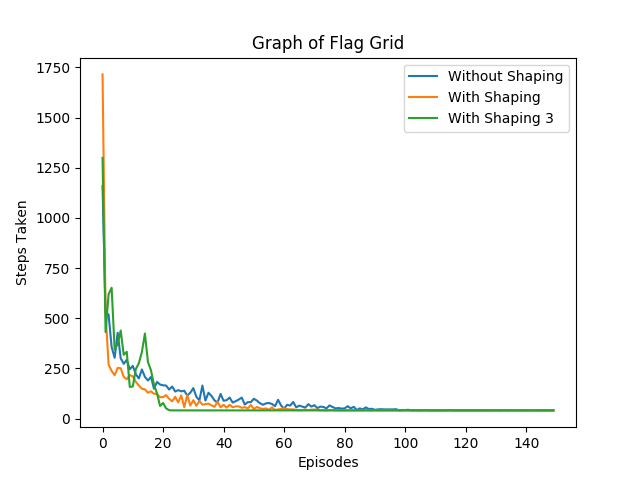
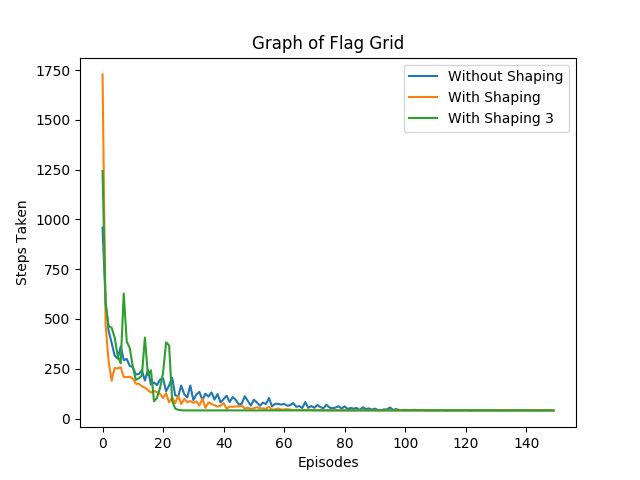
Hungry-Thirsty Added

diff --git a/main.py b/main.py
@@ -13,29 +13,33 @@ def show_Q_path(n,Q,action_map2,pl,name):
 		pl.grid.gui.update(pl.states[j][0],pl.states[j][1],j)
 	return gui0
 n=10
-p=0
+p=0.1
 eps = 1
 num_actions = 4
 num_episode = 150
 lr = 0.5
+
+#######Flag positions############
 # flag_pos = [[1,4],[2,0],[3,4],[4,0]]
 # flag_pos = [[0,4],[2,2]]
-flag_pos = [[6,1]]
+# flag_pos = [[6,1]]
 # flag_pos = [[0,9],[8,0],[5,4],[3,9],[6,0],[9,9]]
 
 allowed = [[True]*n for i in range(0,n)]
 # allowed[0][1] = False
-allowed[1][0:8] = [False]*8
-allowed[3][1:10] = [False]*9
-allowed[5][0:5] = [False]*5
-allowed[5][6:10] = [False]*4
-allowed[7][2:8] = [False]*6
-allowed[6][2] = False
+# allowed[1][0:8] = [False]*8
+# allowed[3][1:10] = [False]*9
+# allowed[5][0:5] = [False]*5
+# allowed[5][6:10] = [False]*4
+# allowed[7][2:8] = [False]*6
+# allowed[6][2] = False
 
+##water and food positions###
+fpos = [9,9]
+wpos = [0,9]
 
-
-
-num_states = n*n*len(flag_pos)
+# num_states = n*n*len(flag_pos)
+num_states = n*n*2
 
 
 action_map = {0:"Up",1:"down",2:"right",3:"left"}
@@ -43,9 +47,13 @@ action_map2 = {0:"\u2191",1:"\u2193",2:"\u2192",3:"\u2190"}
 
 #############################################################################################
 
-grid = gridSim(n,p,flag_pos,allowed,"Optimal Action Withounum_actionst Shaping")
+# grid = gridSim(n,p,flag_pos,allowed,"Optimal Action Withounum_actionst Shaping")
 
-pl = player(grid)
+# pl = player(grid)
+grid = htgrid(n,p,allowed,fpos,wpos,"Optimal Action Without Shaping")
+
+pl = htpl(grid)
+
 Q,stepsPerEpisode=q_learning(pl,lr,eps,num_episode,num_states,num_actions,0)
 print(estimate_V(Q,num_states,num_actions))
 gui=show_Q_path(n,Q,action_map2,pl,"path without shaping")
@@ -54,14 +62,14 @@ plt.plot(range(num_episode),stepsPerEpisode,label='Without Shaping')
 
 #############################################################################################
 
-grid.__init__(n,p,flag_pos,allowed,"Optimal Action With Shaping")
-pl.__init__(grid)
+# grid.__init__(n,p,flag_pos,allowed,"Optimal Action With Shaping")
+# pl.__init__(grid)
 
-Q_shaping,stepsPerEpisode_shaping=q_learning(pl,lr,eps,num_episode,num_states,num_actions,1)
-print(estimate_V(Q_shaping,num_states,num_actions))
-gui=show_Q_path(n,Q_shaping,action_map2,pl,"path with shaping")
+# Q_shaping,stepsPerEpisode_shaping=q_learning(pl,lr,eps,num_episode,num_states,num_actions,1)
+# print(estimate_V(Q_shaping,num_states,num_actions))
+# gui=show_Q_path(n,Q_shaping,action_map2,pl,"path with shaping")
 
-plt.plot(range(num_episode),stepsPerEpisode_shaping,label='With Shaping')
+# plt.plot(range(num_episode),stepsPerEpisode_shaping,label='With Shaping')
 #############################################################################################
 
 # grid.__init__(n,p,flag_pos,allowed,"Optimal Action With Shaping 2")
@@ -75,14 +83,16 @@ plt.plot(range(num_episode),stepsPerEpisode_shaping,label='With Shaping')
 
 # ##############################################################################################
 
-grid.__init__(n,p,flag_pos,allowed,"Optimal Action With Shaping 3")
-pl.__init__(grid)
+# grid.__init__(n,p,flag_pos,allowed,"Optimal Action With Approx V* potential")
+# grid.__init__(n,p,allowed,fpos,wpos,"Optimal Action With Approx V* potential")
 
-Q_shaping,stepsPerEpisode_shaping_2=q_learning(pl,lr,eps,num_episode,num_states,num_actions,3)
-print(estimate_V(Q_shaping,num_states,num_actions))
-gui=show_Q_path(n,Q_shaping,action_map2,pl,"path with shaping 3")
+# pl.__init__(grid)
 
-plt.plot(range(num_episode),stepsPerEpisode_shaping_2,label='With Shaping 3')
+# Q_shaping,stepsPerEpisode_shaping_2=q_learning(pl,lr,eps,num_episode,num_states,num_actions,3)
+# print(estimate_V(Q_shaping,num_states,num_actions))
+# gui=show_Q_path(n,Q_shaping,action_map2,pl,"path with Approx V* potential")
+
+# plt.plot(range(num_episode),stepsPerEpisode_shaping_2,label='With Approx V* potential')
 
 ##############################################################################################
 
@@ -95,9 +105,9 @@ plt.plot(range(num_episode),stepsPerEpisode_shaping_2,label='With Shaping 3')
 # plt.show()
 
 # plt.scatter(range(num_episode),stepsPerEpisode_shaping)
-plt.title("Graph of Flag Grid")
+plt.title("Graph of Hungry-Thirsty")
 plt.xlabel("Episodes")
 plt.ylabel("Steps Taken")
 plt.legend()
-plt.savefig('wall_grid_013.png')
+plt.savefig('htp_0.png')
 plt.show()

diff --git a/gridSim.py b/gridSim.py
@@ -70,6 +70,72 @@ class gridSim:
 		else:
 			return [i,j,self.collected,reward,self.finished]
 
+class htgrid:
+	def __init__(self, n,p,allowed,fpos,wpos,name="hi"):
+		self.n = n
+		self.p = p
+		self.allowed = allowed
+		self.fpos = fpos
+		self.wpos = wpos
+		self.gui = App(n,n,name)
+		self.finished=False
+		self.init_pos = [0,0]
+
+
+	def reset(self):
+		self.finished = False
+
+	def take_action(self,i,j,t,move):
+		if move == 0:
+			j1 = j
+			if i == 0:
+				i1 = i
+			else:
+				i1 = i-1
+
+		if move == 2:
+			i1 = i
+			if j == self.n-1:
+				j1 = j
+			else:
+				j1 = j+1
+
+		if move == 1:
+			j1 = j
+			if i < self.n-1:
+				i1 = i + 1
+			else:
+				i1 = i
+
+		if move == 3:
+			i1 = i
+			if j > 0:
+				j1 = j - 1
+			else:
+				j1 = j
+
+		if i1 == self.wpos[0] and j1 == self.wpos[1]:
+			t1 = 1
+		elif t == 1:
+			x = random.random()
+			if x < self.p:
+				t1 = 0
+			else:
+				t1 = 1
+		else:
+			t1 = 0
+
+		if t1 == 1 and i1==self.fpos[0] and j1==self.fpos[1]:
+			self.finished = True
+
+		reward = -1
+		if self.allowed[i1][j1]:
+			return [i1,j1,t1,reward,self.finished] 
+		else:
+			return [i,j,t1,reward,self.finished]
+
+		
+
 # if __name__ == "__main__":
 #     grid=gridSim(10,0.5)
 #     [x,y] = grid.init_pos

diff --git a/player.py b/player.py
@@ -53,3 +53,28 @@ class player:
 	def reset(self):
 		self.states=[[0,0]]
 		self.grid.reset()
+
+class htpl:
+	"""docstring for htpl"""
+	def __init__(self,grid):
+		self.grid = grid
+		self.initState = 0
+		self.states=[[0,0]]
+	def transition(self,state,action):
+		n = self.grid.n
+		# collected = int(state/(n*n))
+		t = int(state/(n*n));
+		temp = state%(n*n);
+
+		x = int((temp)/n)
+		y = temp%n
+		[x1,y1,t1,reward,finished]=self.grid.take_action(x,y,t,action)
+		self.states.append([x1,y1])
+		next_state=int(t1*n*n + x1*n + y1)
+		# if finished:
+		# 	next_state-=n*n
+		return next_state,reward,finished
+
+	def reset(self):
+		self.states=[[0,0]]
+		self.grid.reset()
